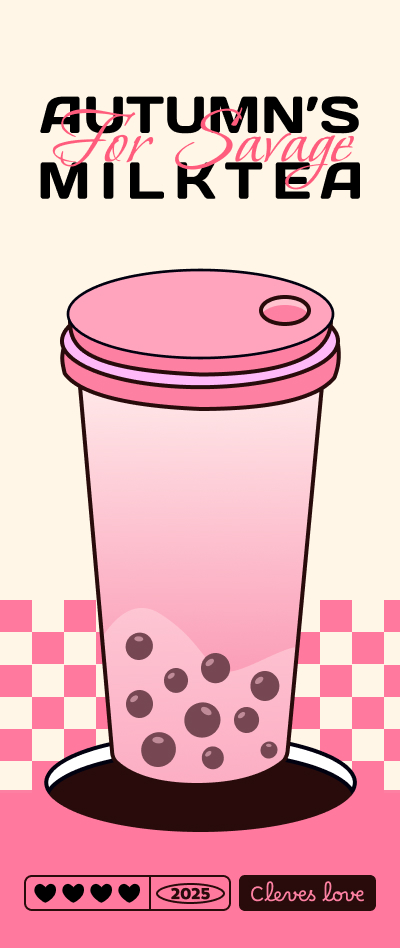
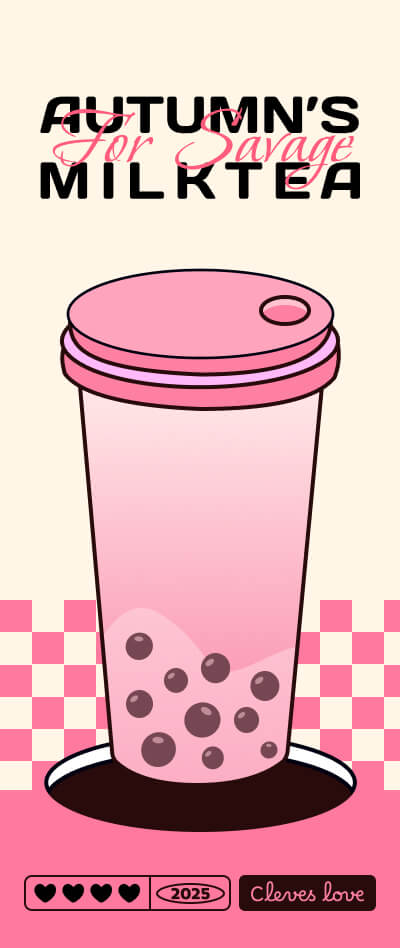
feat: update animation duration for '#forSavage' and clean up main.ts

diff --git a/src/main.ts b/src/main.ts
@@ -2,26 +2,6 @@ import './style.css'
 import { resizeFrame } from './flexible.ts'
 import { animate } from './animate.ts'
 
-// document.querySelector<HTMLDivElement>('#app')!.innerHTML = `
-//   <div>
-//     <a href="https://vite.dev" target="_blank">
-//       <img src="${viteLogo}" class="logo" alt="Vite logo" />
-//     </a>
-//     <a href="https://www.typescriptlang.org/" target="_blank">
-//       <img src="${typescriptLogo}" class="logo vanilla" alt="TypeScript logo" />
-//     </a>
-//     <h1>Vite + TypeScript</h1>
-//     <div class="card">
-//       <button id="counter" type="button"></button>
-//     </div>
-//     <p class="read-the-docs">
-//       Click on the Vite and TypeScript logos to learn more
-//     </p>
-//   </div>
-// `
-
-// setupCounter(document.querySelector<HTMLButtonElement>('#counter')!)
-
 resizeFrame()
 
 animate()

diff --git a/src/animate.ts b/src/animate.ts
@@ -18,6 +18,6 @@ export const animate = async () => {
   ant(
     '#forSavage',
     { clipPath: 'inset(0 0 0 0)' },
-    { duration: 1, type: 'tween' }
+    { duration: 2, type: 'tween' }
   )
 }
